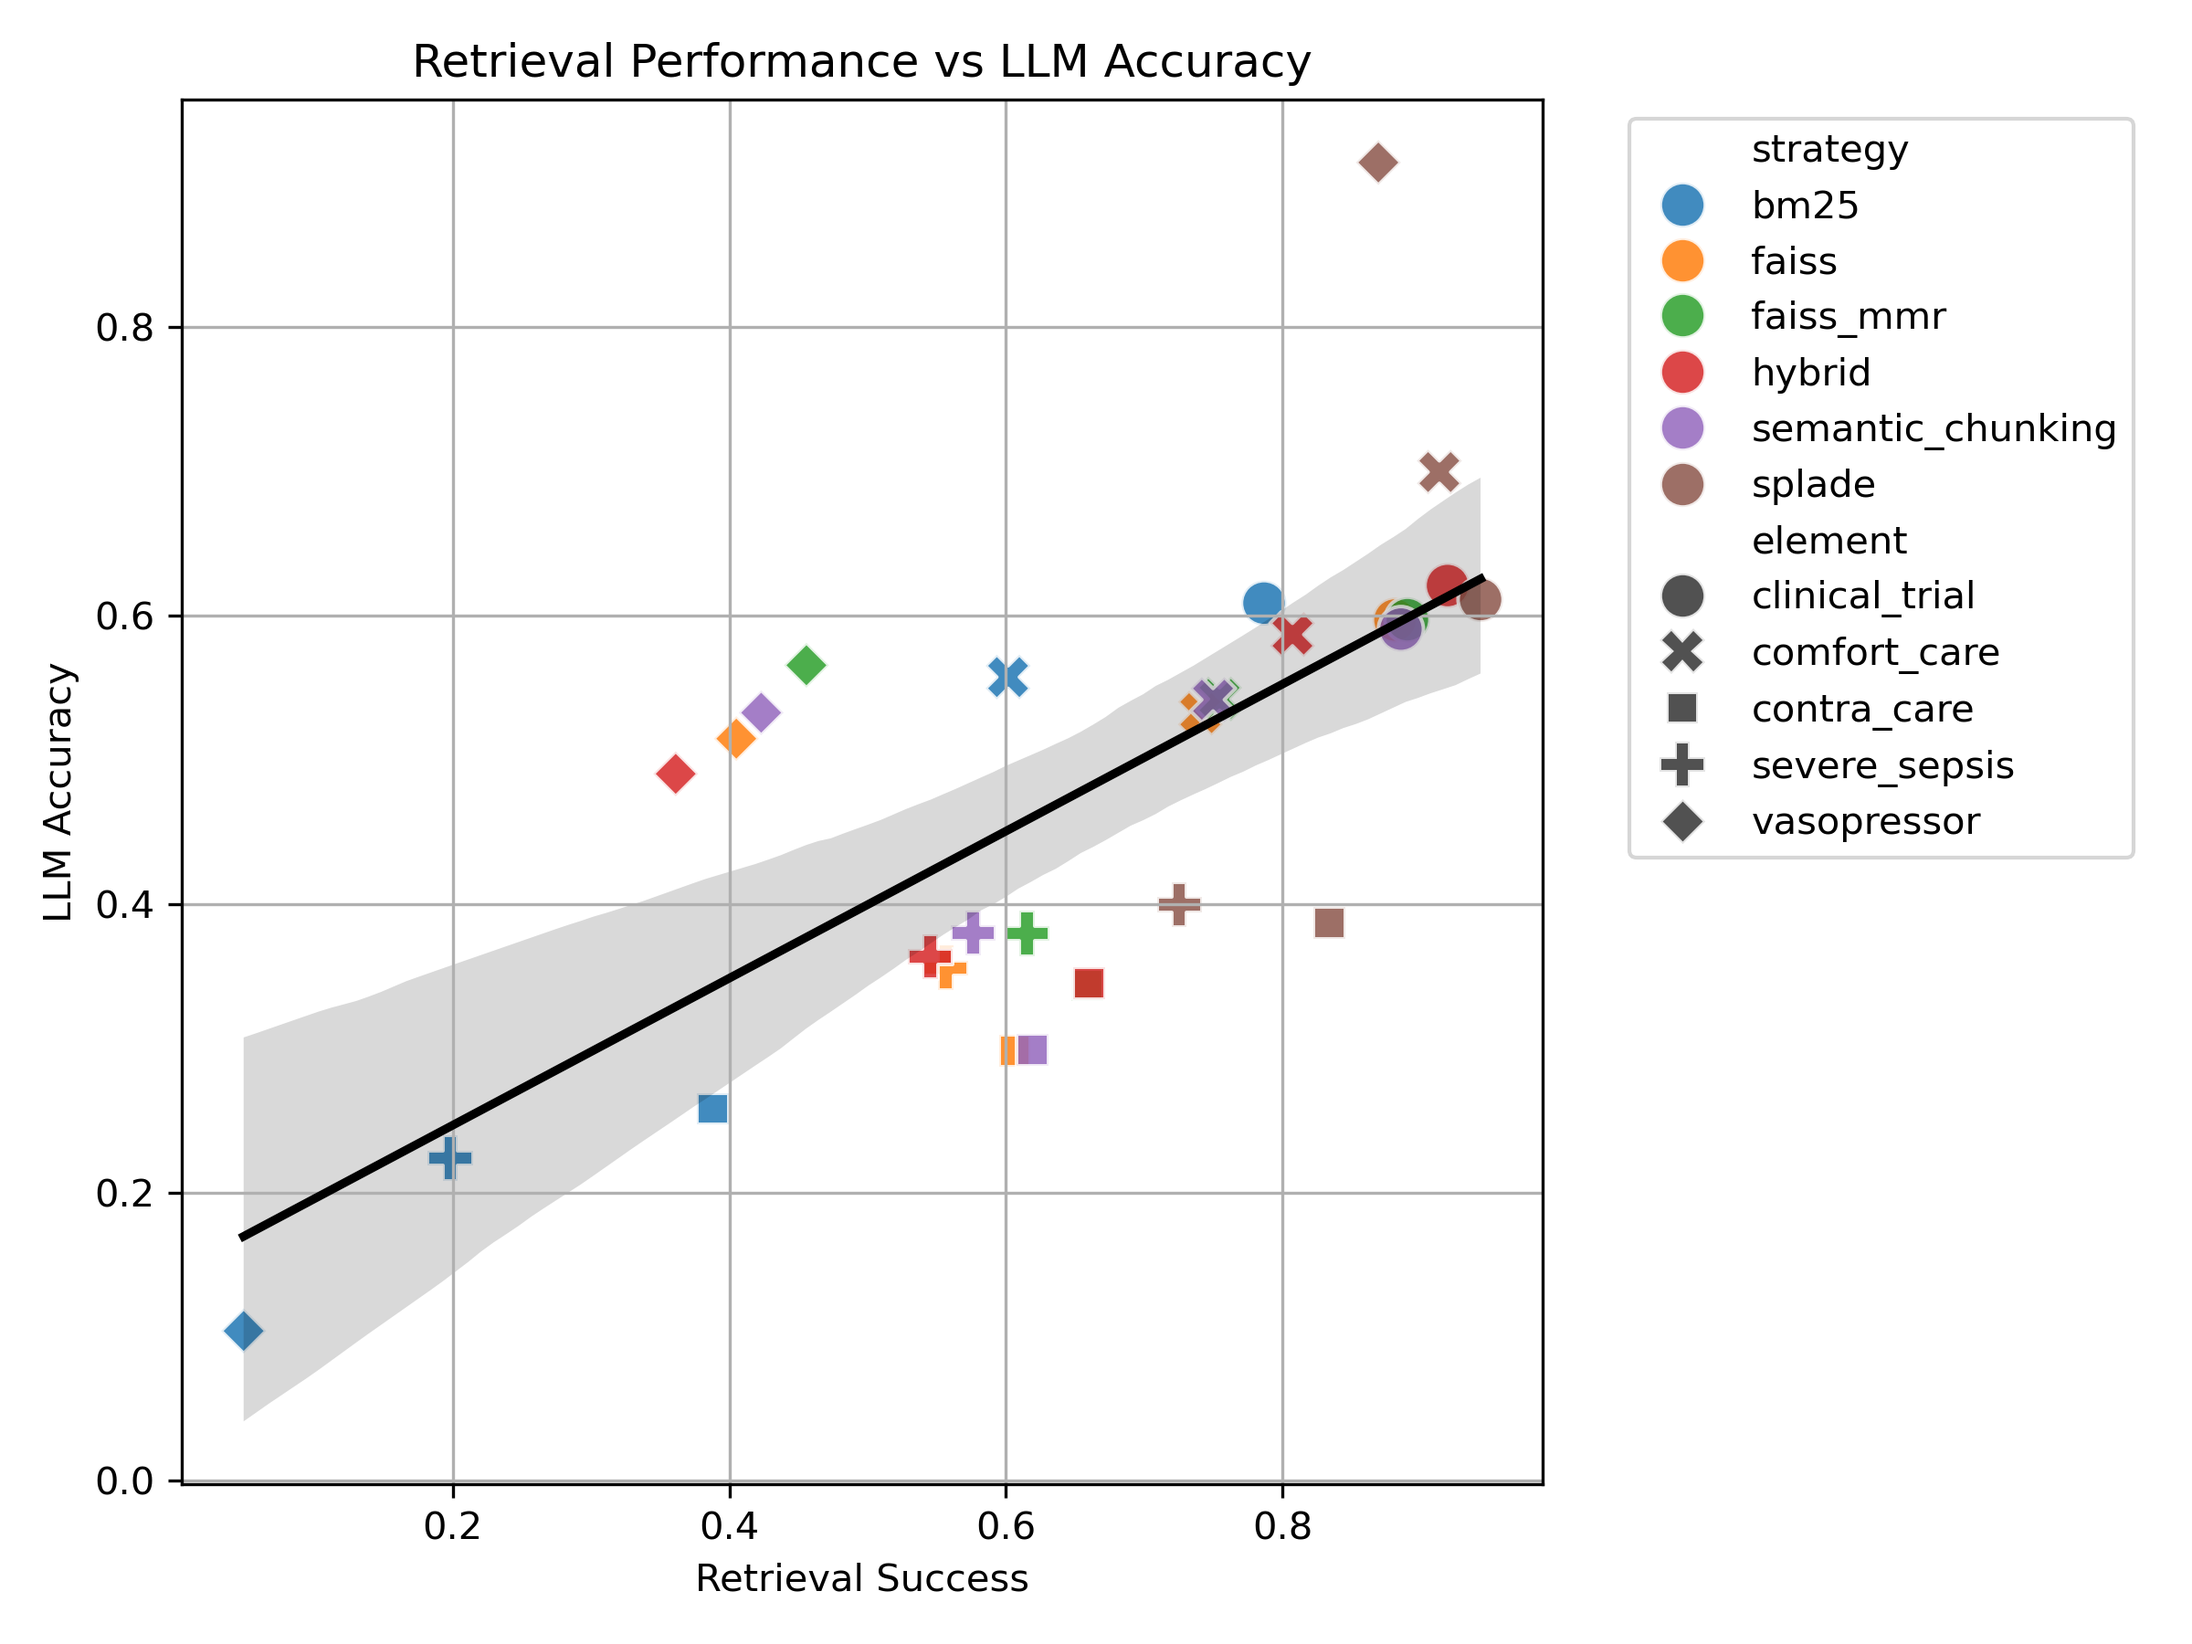
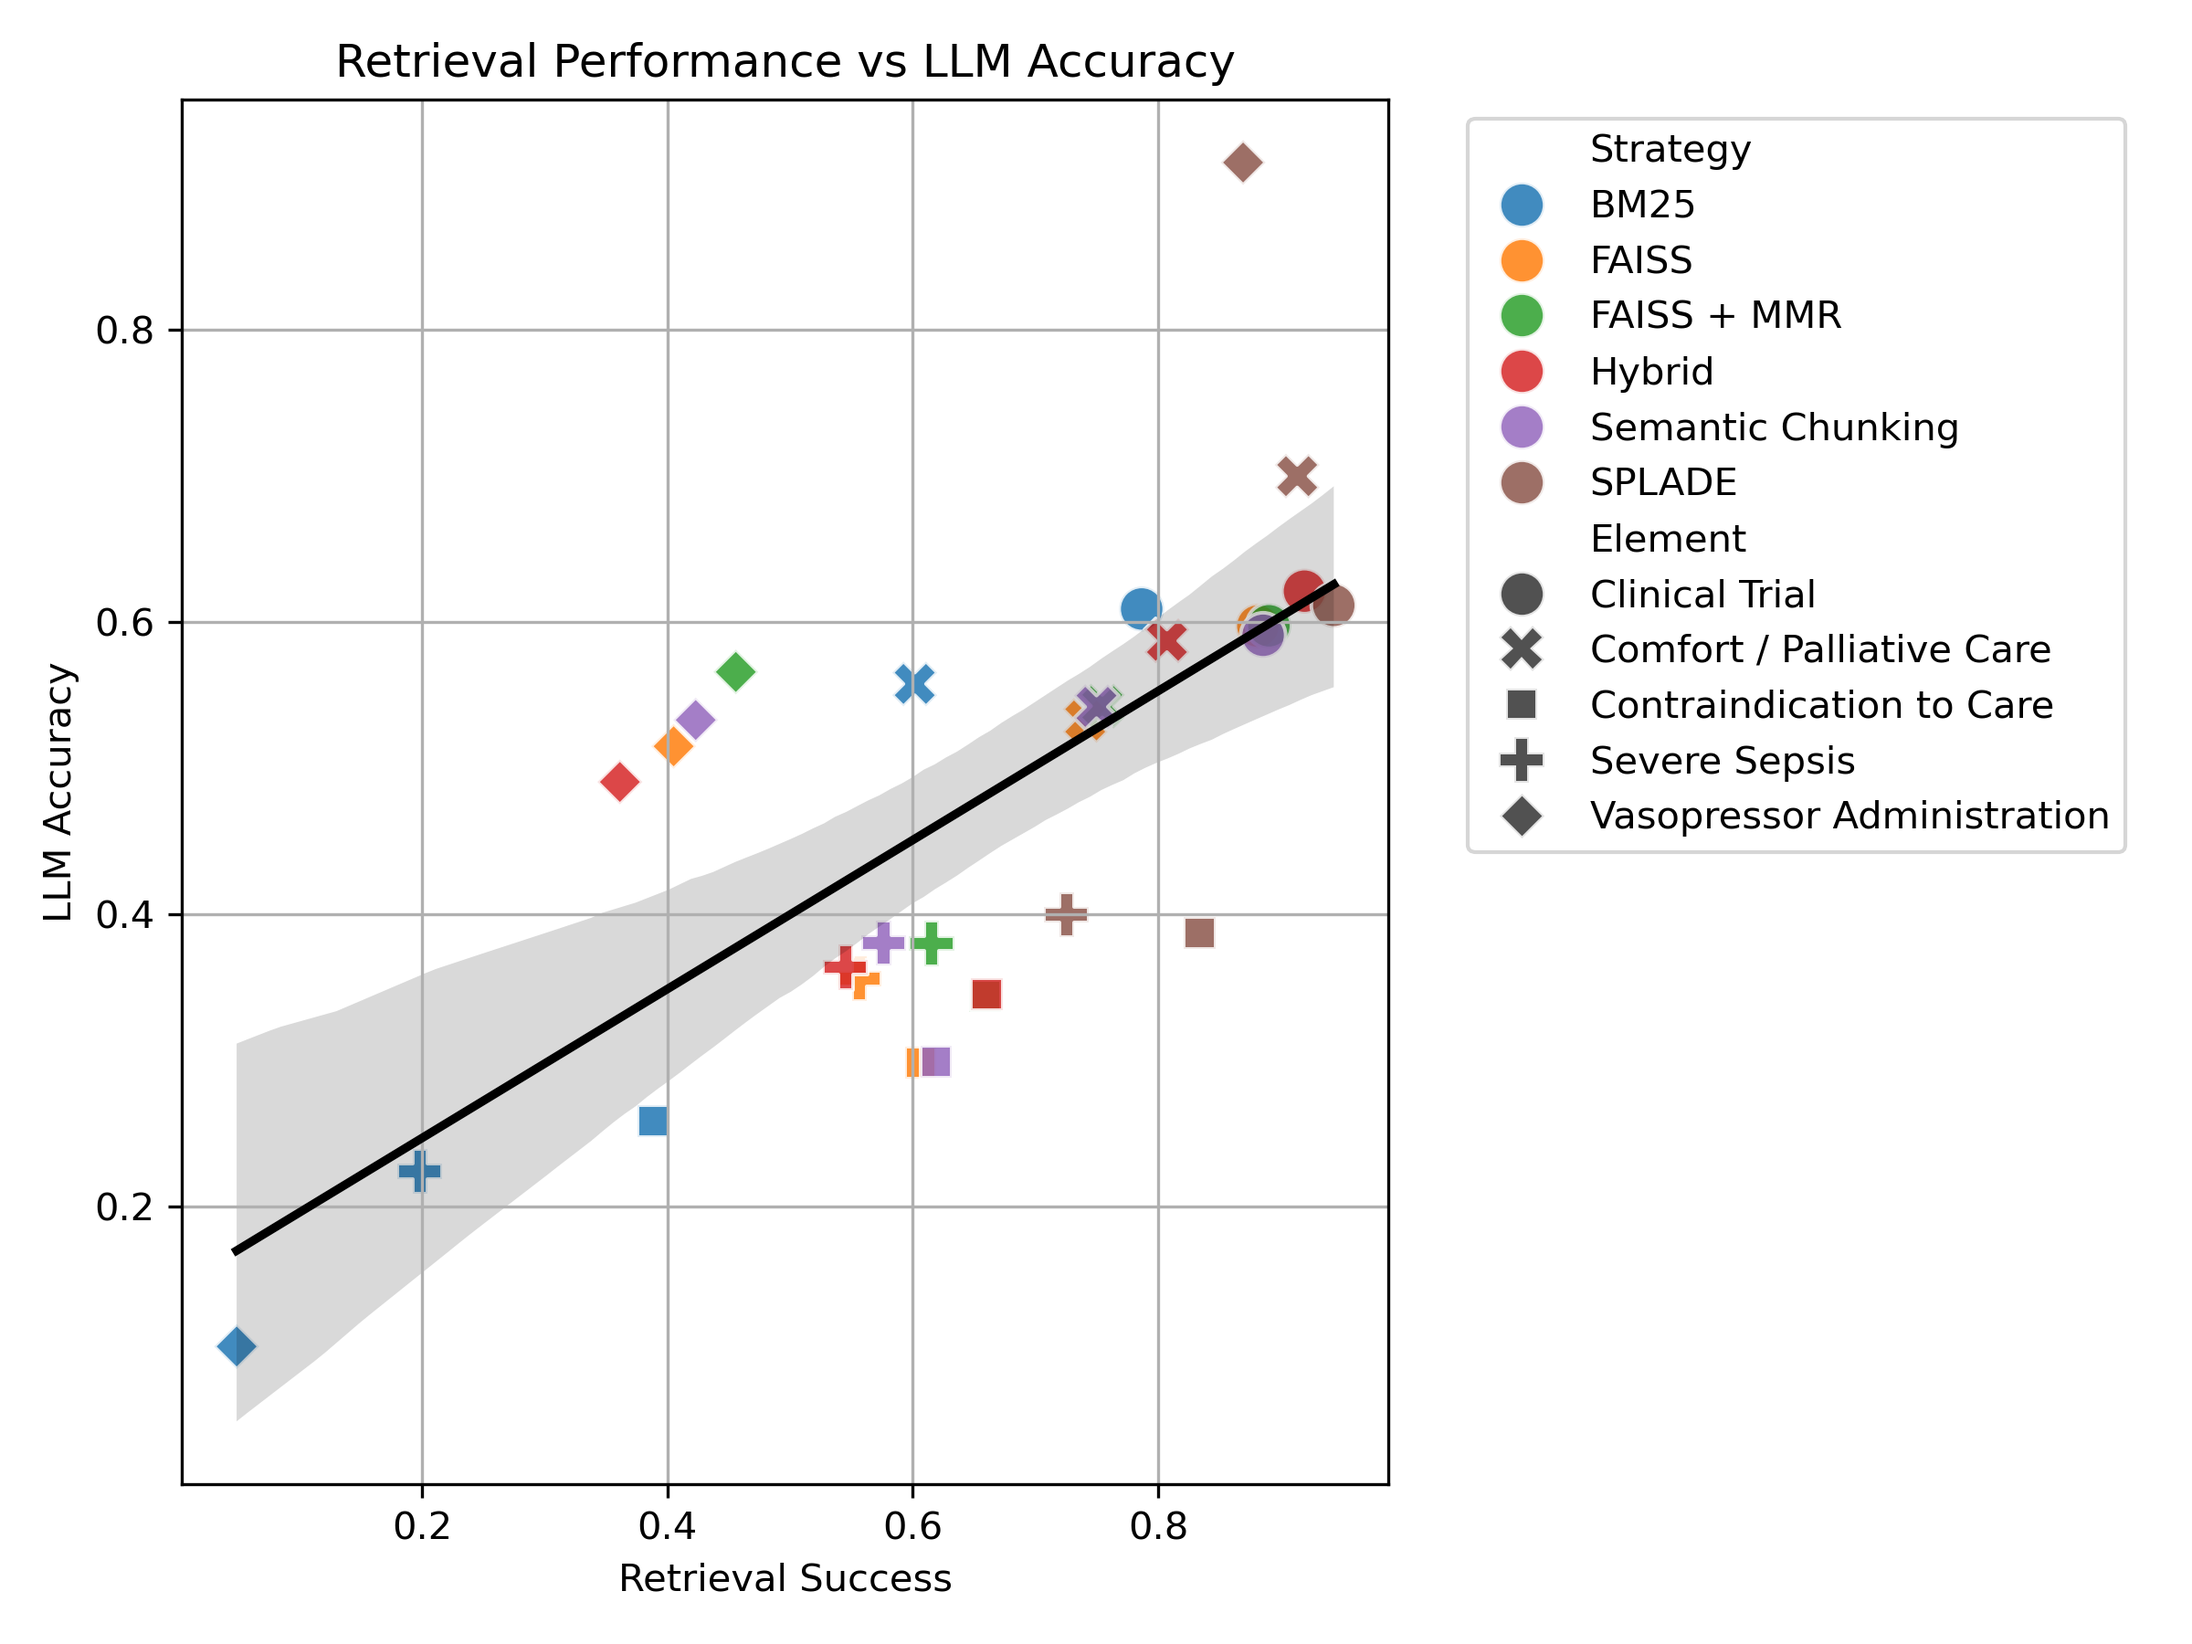
update visualizations

diff --git a/src/results_patient_level/visualize.py b/src/results_patient_level/visualize.py
@@ -228,20 +228,24 @@ plt.close()
 # Scatter Plot (Retrieval Methods Only)
 df_retrieval = df[df["strategy"] != "full_context_baseline"]
 
+df_retrieval_copy = df_retrieval.copy()
+df_retrieval_copy["Element"] = df_retrieval_copy["element"].map(element_mapping)
+df_retrieval_copy["Strategy"] = df_retrieval_copy["strategy"].map(strategy_mapping)
+
 plt.figure(figsize=(8,6))
 
 sns.scatterplot(
-    data=df_retrieval,
+    data=df_retrieval_copy,
     x="retrieval_success",
     y="accuracy",
-    hue="strategy",
-    style="element",
+    hue="Strategy",
+    style="Element",
     s=140,
     alpha=0.85
 )
 
 sns.regplot(
-    data=df_retrieval,
+    data=df_retrieval_copy,
     x="retrieval_success",
     y="accuracy",
     scatter=False,
